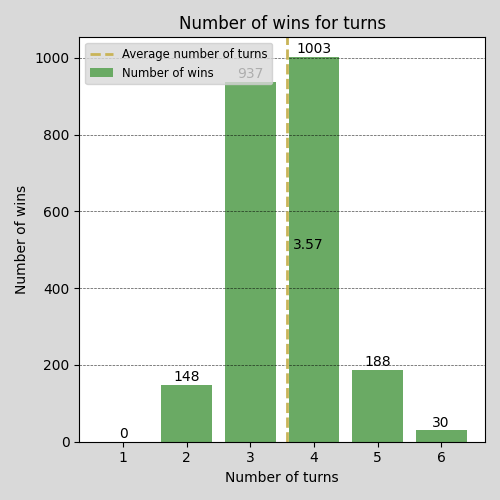
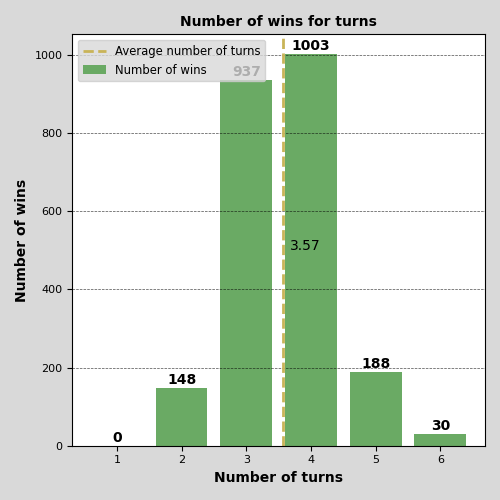
finished the dashboard

Changed region(s): [[0.06, 0.03, 0.99, 0.99], [0.03, 0.36, 0.06, 0.6]]

diff --git a/main.py b/main.py
@@ -1,6 +1,6 @@
 import tkinter as tk
 import os
-from create_graphs import create_graphs, create_ranking, create_general_statistics
+from create_graphs import create_graphs, create_ranking, create_general_statistics, create_letter_heatmap
 from Algorithm import algorithm
 
 
@@ -50,6 +50,22 @@ def load_general_statistics(starting_word):
         print(e)
         return None
 
+def load_letter_heatmap():
+    # Check if the graph image exists
+    if os.path.exists(f'Data/Graphs/letter_heatmap.png'):
+        # Load the graph image
+        graph_image = tk.PhotoImage(file=f'Data/Graphs/letter_heatmap.png')
+        return graph_image
+    else:
+        # Create the graph image if it does not exist
+        try:
+            create_letter_heatmap()
+            graph_image = tk.PhotoImage(file=f'Data/Graphs/letter_heatmap.png')
+            return graph_image
+        except ValueError as e:
+            print(e)
+    return None
+
 def on_enter(event):
     starting_word = starting_word_entry.get()
     starting_word = starting_word.capitalize()
@@ -58,6 +74,7 @@ def on_enter(event):
         graph_image = load_graph(starting_word)
         ranking_list, amount_of_words = load_ranking_list(starting_word)
         general_statistics = load_general_statistics(starting_word)
+        letter_heatmap = load_letter_heatmap()
 
         if graph_image:
             # Display the graph image in one of the rectangles (example: rectangle1)
@@ -71,12 +88,18 @@ def on_enter(event):
             # Display the general statistics in another rectangle (example: rectangle3)
             display_general_statistics(general_statistics)
 
+        if letter_heatmap:
+            # Display the letter heatmap in another rectangle (example: rectangle3)
+            display_graph(letter_heatmap, rectangle3)
+
         else:
             # Run the algorithm if data is not available
             algorithm(starting_word)
             graph_image = load_graph(starting_word)
             display_ranking_list(ranking_list, amount_of_words, rectangle2)
             display_general_statistics(general_statistics, top_rectangle)
+            display_letter_heatmap(letter_heatmap, rectangle3)
+
 
             if graph_image:
                 # Display the graph image in one of the rectangles
@@ -89,6 +112,10 @@ def on_enter(event):
             if general_statistics:
                 # Display the general statistics in another rectangle (example: rectangle3)
                 display_general_statistics(general_statistics)
+
+            if letter_heatmap:
+                # Display the letter heatmap in another rectangle (example: rectangle3)
+                display_graph(letter_heatmap, rectangle3)
 
     # Reset the entry field to placeholder text and color
     starting_word_entry.delete(0, tk.END)
@@ -128,8 +155,8 @@ def display_ranking_list(ranking_list, amount_of_words, frame):
     amount_label.pack(fill="x", pady=10, padx=10)
 
     # create a label on the bottom left saying what the ranking is based on
-    description_label = tk.Label(frame, text="Based on: \nthe number of wins, "
-                                             "\naverage amount of guesses needed to win and how many words are "
+    description_label = tk.Label(frame, text="Based on: \naverage amount of guesses needed to win,\n"
+                                             "the win rate and how many words are "
                                              "\nstill possible after the first turn",
                                  bg='#D9D9D9', font=('Inter', 10, 'italic'), anchor='w', justify='left')
     description_label.pack(fill="x", pady=10, padx=10)
@@ -150,6 +177,7 @@ def display_general_statistics(general_statistics):
         widget.destroy()
 
     general_statistics = general_statistics
+    percentage_of_words_eliminated = round((general_statistics[5] - general_statistics[3]) / general_statistics[5] * 100, 2)
     # Create a label for the statistics title
     title_label = tk.Label(title_rectangle, text="General statistics:", bg='#D9D9D9', font=('Inter', 20, "bold"),
                            anchor='center', justify='left')
@@ -161,15 +189,25 @@ def display_general_statistics(general_statistics):
                                 bg='#D9D9D9', font=('Inter', 13, "italic"), anchor='w', justify='left')
     statistic1_label.pack(fill="x", pady=5, padx=10)
 
-    statistic2_label = tk.Label(top_rectangle2, text=f"Starting word eliminations: {general_statistics[3]}\n"
+    statistic2_label = tk.Label(top_rectangle2, text=f"Starting word eliminations: {percentage_of_words_eliminated}%\n"
                                             f"Median number of turns: {general_statistics[2]}",
                                 bg='#D9D9D9', font=('Inter', 13, "italic"), anchor='w', justify='left')
     statistic2_label.pack(fill="x", pady=5, padx=10)
 
-    statistic3_label = tk.Label(top_rectangle3, text=f"Average execution time: {round(general_statistics[6],3)} seconds\n"
+    statistic3_label = tk.Label(top_rectangle3, text=f"Average execution time per game: {round(general_statistics[6],3)} seconds\n"
                                             f"Total execution time: {round(general_statistics[4])} seconds",
                                 bg='#D9D9D9', font=('Inter', 13, "italic"), anchor='w', justify='left')
     statistic3_label.pack(fill="x", pady=5, padx=10)
+
+def display_letter_heatmap(letter_heatmap):
+    # Clear previous contents of the frame (if any)
+    for widget in rectangle3.winfo_children():
+        widget.destroy()
+
+    # Create a label to display the graph image
+    graph_label = tk.Label(rectangle3, image=letter_heatmap)
+    graph_label.image = letter_heatmap  # Keep reference to prevent garbage collection
+    graph_label.pack(fill="both", expand=True)  # Adjust packing based on your layout
 
 
 # Create the main window

diff --git a/create_graphs.py b/create_graphs.py
@@ -2,12 +2,15 @@ from database_connection import connect, close
 import matplotlib.pyplot as plt
 import os
 from Algorithm import algorithm
+from matplotlib.colors import LinearSegmentedColormap
+import seaborn as sns
 
 
 # Define Wordle colors
 wordle_green = '#6aaa64'
 wordle_yellow = '#c9b458'
 wordle_gray = '#D9D9D9'
+
 
 def create_general_statistics(starting_word):
     # make sure the first letter is uppercase
@@ -35,13 +38,15 @@ def create_general_statistics(starting_word):
     general_statistics.append(average_execution_time)
 
     return general_statistics
+
+
 def create_ranking(starting_word):
     conn, cursor = connect()
 
     # Get the ranking of all starting words
     cursor.execute("""
            SELECT starting_word, win_rate, average_turns, starting_word_eliminations,
-                  ROW_NUMBER() OVER (ORDER BY win_rate DESC, average_turns, starting_word_eliminations) AS rank
+                  ROW_NUMBER() OVER (ORDER BY average_turns, starting_word_eliminations, win_rate DESC) AS rank
            FROM statistics
        """)
 
@@ -80,14 +85,12 @@ def create_ranking(starting_word):
     return formatted_ranking_list, amount_words
 
 
-
 def create_wins_on_turns_graph(data, starting_word):
     # Get the number of wins for each turn
     wins = {1: data[8], 2: data[9], 3: data[10], 4: data[11], 5: data[12], 6: data[13]}
     turns = list(wins.keys())
     num_wins = list(wins.values())
     average = data[2]
-
 
     # Create the figure and axis with a size of 540x590 pixels
     fig, ax = plt.subplots(figsize=(500 / 100, 500 / 100), dpi=100)
@@ -102,13 +105,13 @@ def create_wins_on_turns_graph(data, starting_word):
     plt.text(float(average) + 0.1, max(num_wins) / 2, f'{average:.2f}', color='black', fontsize=10)
 
     # Add labels and title
-    plt.xlabel('Number of turns', color='black')
-    plt.ylabel('Number of wins', color='black')
-    plt.title('Number of wins for turns', color='black')
+    plt.xlabel('Number of turns', color='black', fontsize=10, fontweight='bold')
+    plt.ylabel('Number of wins', color='black', fontsize=10, fontweight='bold')
+    plt.title('Number of wins for turns', color='black', fontsize=10, fontweight='bold', loc='center')
 
     # Customize ticks
-    ax.tick_params(axis='x', colors='black')
-    ax.tick_params(axis='y', colors='black')
+    ax.tick_params(axis='x', colors='black', labelsize=8)
+    ax.tick_params(axis='y', colors='black', labelsize=8)
 
     # Add horizontal grid lines
     plt.grid(True, which='major', linestyle='--', linewidth=0.5, color='black', alpha=0.7, axis='y')
@@ -118,7 +121,7 @@ def create_wins_on_turns_graph(data, starting_word):
         height = bar.get_height()
         ax.annotate(f'{height}',
                     xy=(bar.get_x() + bar.get_width() / 2, height + 20),
-                    ha='center', va='center', color='black', fontsize=10)
+                    ha='center', va='center', color='black', fontsize=10, fontweight='bold')
 
     # add a legend
     plt.legend(['Average number of turns', 'Number of wins'], loc='upper left', fontsize='small', facecolor=wordle_gray)
@@ -129,6 +132,56 @@ def create_wins_on_turns_graph(data, starting_word):
     # Save the plot in the Graphs folder in the data folder
     fig.savefig(f'Data/Graphs/{starting_word}_wins_on_turns.png')
 
+
+def create_letter_heatmap():
+    # get the information from the database
+    conn, cursor = connect()
+    cursor.execute("SELECT * FROM statistics2")
+
+    # get the data and put it into a list
+    data = cursor.fetchall()
+
+    close(conn)
+
+    # Create a dictionary with the letters as keys and the frequency of the letters in each position as values
+    letters = []
+    heatmap_data = []
+    for row in data:
+        letters.append(row[0])
+        heatmap_data.append(row[1:])
+
+    # Create the figure and axis with a size of 500x500 pixels
+    fig, ax = plt.subplots(figsize=(500 / 100, 500 / 100), dpi=100)
+    fig.patch.set_facecolor(wordle_gray)
+    ax.set_facecolor('white')
+
+    # Create the heatmap
+    heatmap = ax.imshow(heatmap_data, cmap='Greens', aspect='auto')
+
+    # Add labels and title
+    plt.xlabel('Position', color='black', fontsize=10,)
+    plt.ylabel('Letter', color='black', fontsize=10)
+    plt.title('Frequency of letters in each position', color='black', fontsize=10, fontweight='bold', loc = "center")
+
+    # Customize ticks
+    ax.set_xticks(range(5))
+    ax.set_xticklabels(range(1, 6), fontsize=8, fontweight='bold')
+    ax.set_yticks(range(26))
+    ax.set_yticklabels(letters, fontsize=8, fontweight='bold')
+
+    # Rotate the x-axis labels
+    plt.xticks(rotation=0)
+
+    # Add a colorbar
+    plt.colorbar(heatmap)
+
+    # Adjust layout to make it fit better
+    plt.tight_layout()
+
+    # Save the plot in the Graphs folder in the data folder
+    fig.savefig('Data/Graphs/letter_heatmap.png')
+
+
 def create_graphs(starting_word):
     # make sure the first letter is uppercase
     starting_word = starting_word.capitalize()
@@ -136,7 +189,6 @@ def create_graphs(starting_word):
     # get the information from the database
     conn, cursor = connect()
     cursor.execute("SELECT * FROM statistics WHERE starting_word = %s", (starting_word,))
-
 
     # get the data and put it into a list
     data = cursor.fetchone()
@@ -151,6 +203,8 @@ def create_graphs(starting_word):
 
     # check if the graphs are already in the Graphs folder and if it does return the graphs
     if os.path.exists(f'Data/Graphs/{starting_word}_wins_on_turns.png'):
-        file_path = f'Data/Graphs/{starting_word}_wins_on_turns.png'
+        pass
     else:
         create_wins_on_turns_graph(data, starting_word)
+
+create_letter_heatmap()

diff --git a/letter_frequency.py b/letter_frequency.py
@@ -1,0 +1,60 @@
+from database_connection import connect, close
+
+def get_letter_frequency(letter):
+    letter = letter.lower()
+    # do a query to get the frequency of the letter in 1st position then 2nd position etc.
+    conn, cursor = connect()
+    cursor.execute("SELECT COUNT(*) AS count_of_letter_in_position1 FROM words WHERE letter1 = %s", (letter,))
+    count_of_letter_in_position1 = cursor.fetchone()[0]
+
+    cursor.execute("SELECT COUNT(*) AS count_of_letter_in_position2 FROM words WHERE letter2 = %s", (letter,))
+
+    count_of_letter_in_position2 = cursor.fetchone()[0]
+
+    cursor.execute("SELECT COUNT(*) AS count_of_letter_in_position3 FROM words WHERE letter3 = %s", (letter,))
+
+    count_of_letter_in_position3 = cursor.fetchone()[0]
+
+    cursor.execute("SELECT COUNT(*) AS count_of_letter_in_position4 FROM words WHERE letter4 = %s", (letter,))
+
+    count_of_letter_in_position4 = cursor.fetchone()[0]
+
+    cursor.execute("SELECT COUNT(*) AS count_of_letter_in_position5 FROM words WHERE letter5 = %s", (letter,))
+
+    count_of_letter_in_position5 = cursor.fetchone()[0]
+
+    # close the connection
+    close(conn)
+
+    letter_frequency = [count_of_letter_in_position1, count_of_letter_in_position2, count_of_letter_in_position3, count_of_letter_in_position4, count_of_letter_in_position5]
+
+    return letter_frequency
+
+def insert_data(letter, letter_frequency):
+    # do a query to insert the data into the database
+    conn, cursor = connect()
+    cursor.execute("""
+                UPDATE statistics2
+                SET position1 = %s, position2 = %s, position3 = %s, position4 = %s, position5 = %s
+                WHERE letter = %s
+            """, (letter_frequency[0], letter_frequency[1], letter_frequency[2], letter_frequency[3], letter_frequency[4], letter))
+
+    # Commit the transaction
+    conn.commit()
+
+    # close the connection
+
+    close(conn)
+
+def create_letter_frequency():
+    # get all the letters
+    letters = ['A', 'B', 'C', 'D', 'E', 'F', 'G', 'H', 'I', 'J', 'K', 'L', 'M', 'N', 'O', 'P', 'Q', 'R', 'S', 'T', 'U', 'V', 'W', 'X', 'Y', 'Z']
+
+    # loop through all the letters
+    for letter in letters:
+        # get the frequency of the letter
+        letter_frequency = get_letter_frequency(letter)
+        # insert the data into the database
+        insert_data(letter, letter_frequency)
+# Run the function to create the letter frequency table
+create_letter_frequency()

diff --git a/Algorithm.py b/Algorithm.py
@@ -112,7 +112,7 @@ def algorithm(starting_words):
 
                 guess = select_best_guess(possible_words)
             # make a progress bar in percentages but only print it every 5%
-            if total_games % (amount_words // 10) == 0:
+            if total_games % (amount_words // 5) == 0:
                 print(f"{total_games / amount_words * 100:.0f}% of the words have been processed.")
 
         end_time = time.time()
@@ -143,28 +143,13 @@ def algorithm(starting_words):
         conn.commit()
         close(conn)
 
-        print(f"Starting word: {starting_word}")
-        print(f"Amount of games played: {total_games}")
-        print(f"Number of wins: {wins}")
-        print(f"Win rate: {win_rate:.2f}%")
-        print(f"Average number of turns: {turns / wins:.2f}")
-        print(f"Median number of turns: {median_turn}")
-        print(f"Starting word eliminations: {amount_words - starting_word_eliminations}")
-        print(f"Average execution time: {runtime / amount_words:.2f} seconds")
-        print(f"Total execution time: {runtime:.2f} seconds\n")
-
     else:
-        print(f"The starting word '{starting_word}' is already in the database.\n")
         close(conn)
 
 
-# Run the main function with the starting word 'salet'
-starting_word = [
-    "Crane", "Arise", "Roate", "Media", "Canoe", "Store",
-    "Adieu", "Audio", "About", "Slate", "Crate", "Tales", "Slice",
-    "Trace", "Roast", "Aisle", "Stare", "Salet", "Least", "Soare",
-    "Sauce", 'stone', "irate"
-]
+# List of starting words to test
+#starting_word = get_all_words()
 
 #for word in starting_word:
-    #algorithm(word)
+    #print(f"Processing starting word: {word[1]}")
+    #algorithm(word[1])
